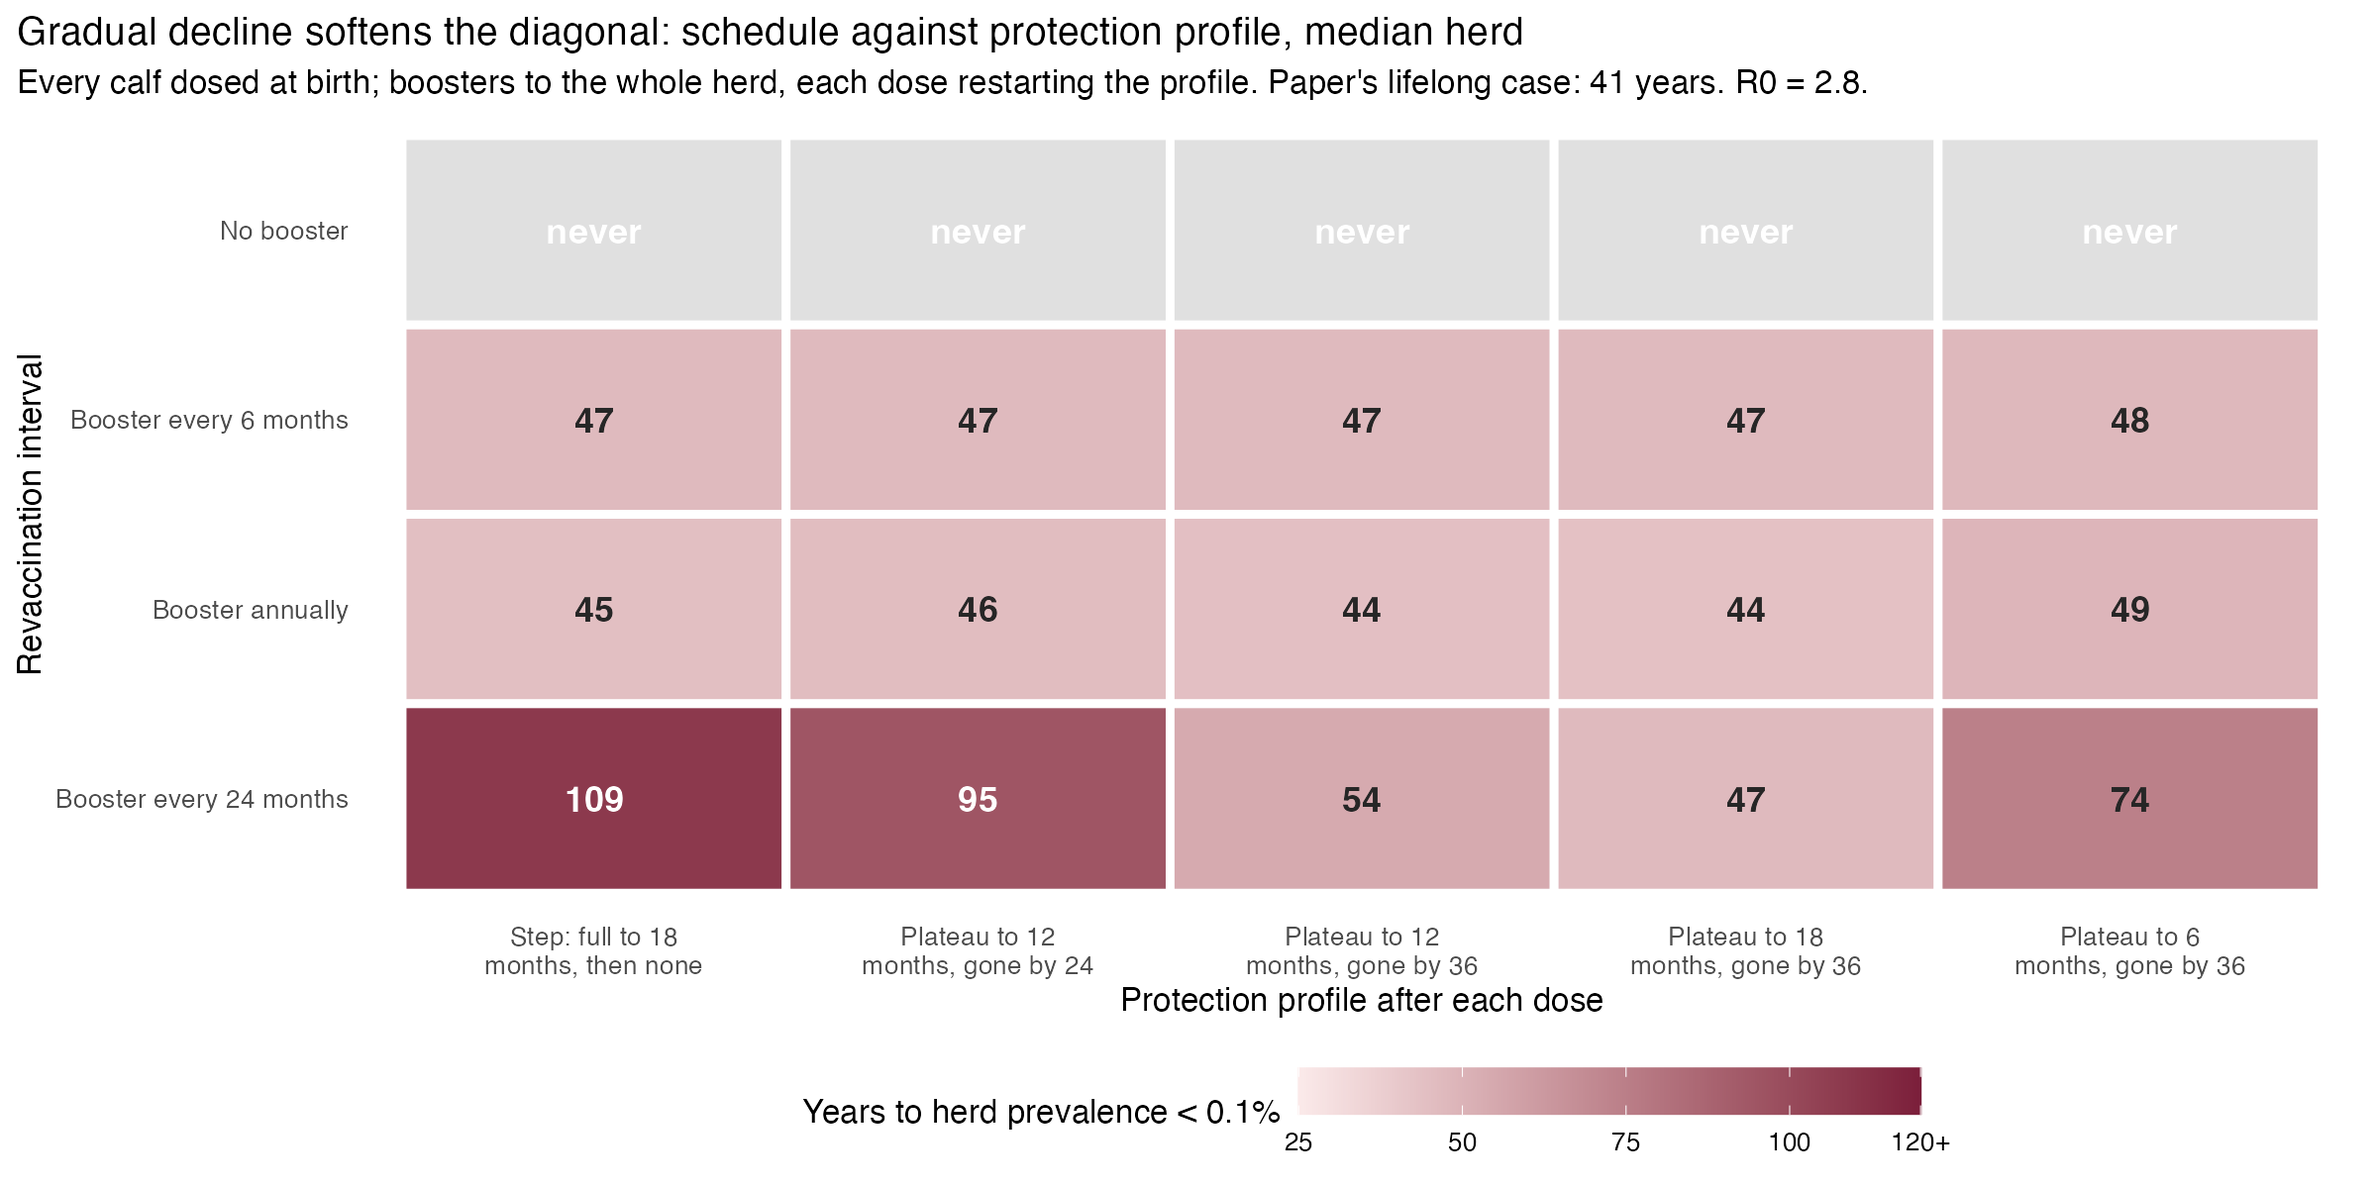
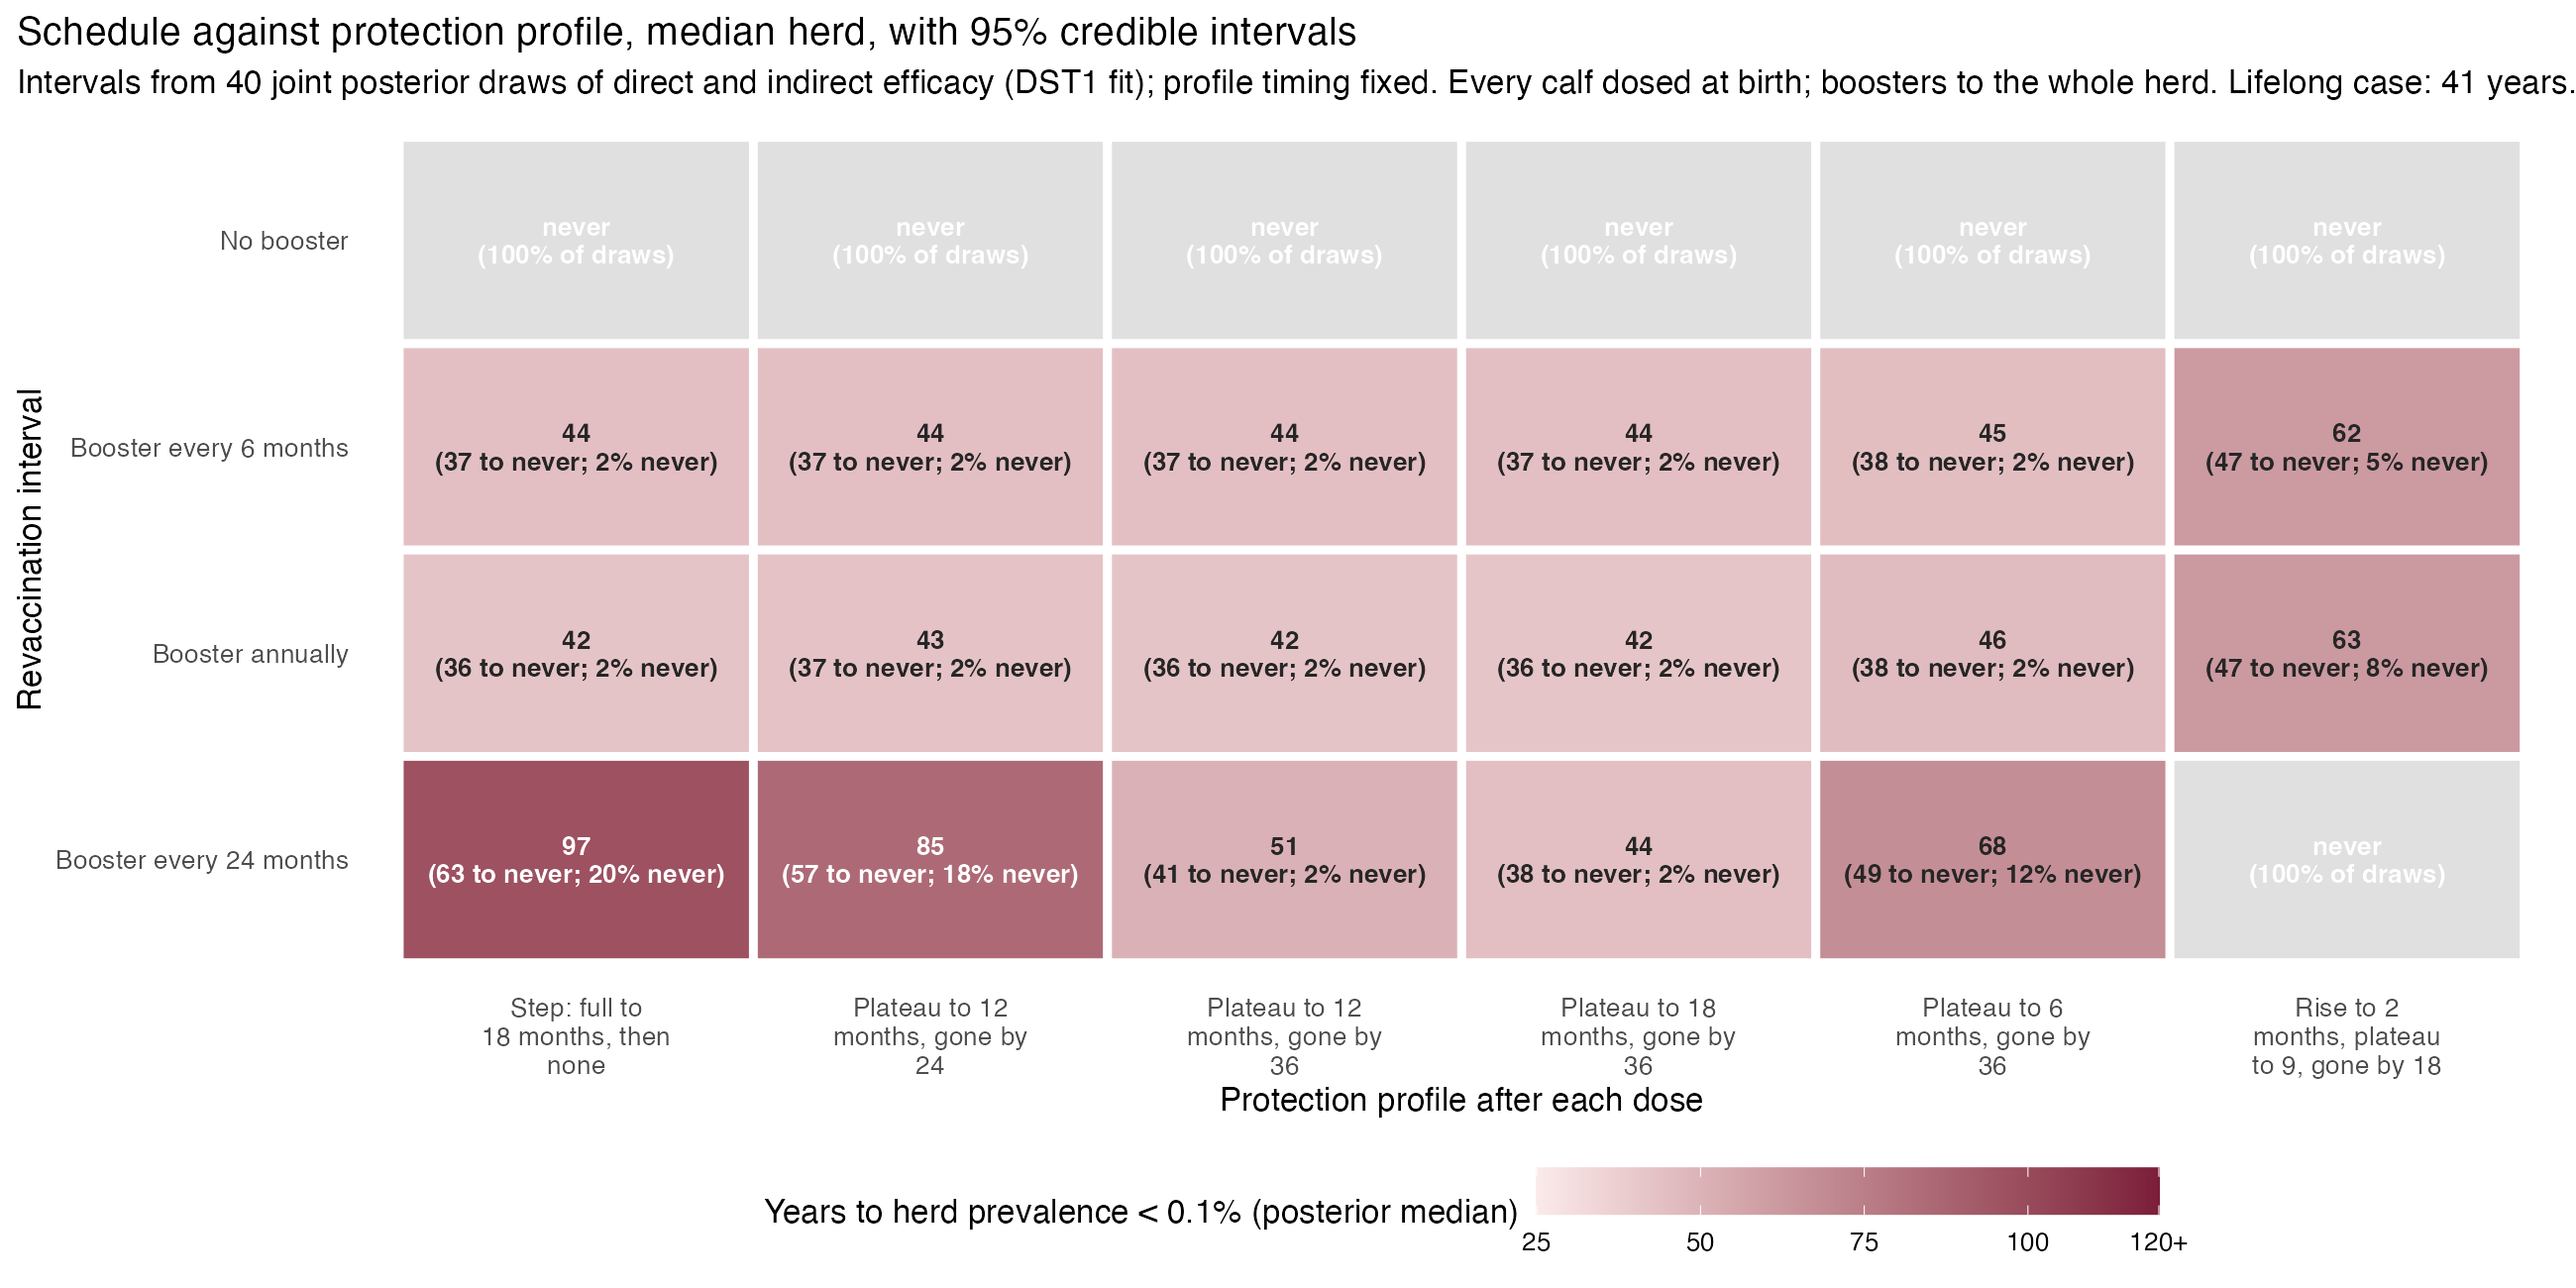
Profile credible intervals, short profile, and imports with test-and-removal
Posterior draws of direct and indirect efficacy give credible intervals
on the schedule-by-profile tiles; a 2-9-18 month profile is added; the
import sweep is repeated for a UK-like herd with R0 1.1 and annual
removal. Figures 17, 18 and 21.

Changed region(s): [[0.0, 0.0, 1.0, 0.8633], [0.2812, 0.8942, 0.8438, 0.9867], [0.875, 0.185, 0.9375, 0.2158]]

diff --git a/README.md b/README.md
@@ -92,6 +92,7 @@ of R0 and for the whole 57-herd population.
 | `R/run_profile.R` | Protection that rises over 30 days, plateaus, and declines with time since dose, tracked by a 40-stage clock; five profile shapes against four revaccination schedules. Model in `R/profile.R`, which also takes a hazard-ratio curve from a trial (`profile_from_hazard`). | `profile_schedule.csv`, figs 17 and 18 |
 | `R/run_nonresponders.R` | Persistent non-responders (never protected by any dose) against random per-dose non-response; analytic ceiling on the tolerable persistent fraction by herd R0. | `nonresponders.csv`, figs 19a and 19b |
 | `R/run_import.R` | Infected animals bought into the herd each year, under the paper's regime and under 18-month immunity with annual revaccination. | `imports.csv`, fig 20 |
+| `R/run_import_uk.R` | The same import sweep in a low-R0 setting with annual test-and-removal (R0 1.1, infected animals removed at 0.7 per year), against the Ethiopian setting, with and without vaccination. | `imports_uk.csv`, fig 21 |
 | `R/run_tiles.R` | Booster schedule (none, every 24 months, annual, every 6 months) against birth-dose duration (6 to 24 months), with the booster's own duration equal to, twice, or independent of the birth dose, and a fourth panel for campaign coverage. Model in `R/boost.R`. | `tiles_booster_schedule.csv`, fig 15 |
 | `R/run_memo_figure.R` | Scenario ladder: one lever changed per row from the paper's base case. | `memo_scenarios.csv`, fig 14 |
 | `R/run_revaccination.R` | Duration of protection from 3 months to lifelong under three strategies: calves at birth only; calves plus an annual campaign vaccinating every unprotected uninfected animal; calves plus an annual campaign vaccinating every uninfected animal, restarting protection in those still protected. Each under gradual (exponential) and near-fixed (Erlang, k = 20) waning. Deterministic times for representative herds and the 57-herd population, time-averaged protected fraction, and a SimInf check. Model in `R/revaccination.R`. | `revacc_*.csv`, figs 9 to 11 |
@@ -124,6 +125,7 @@ Layout:
     R/run_profile.R     profile shape against schedule
     R/run_nonresponders.R  persistent against random non-response
     R/run_import.R      infected purchases
+    R/run_import_uk.R   infected purchases with test-and-removal, UK-like R0
     R/run_tiles.R       booster schedule tile figure
     R/run_memo_figure.R scenario ladder
     data/               three inputs copied from the authors' repository
@@ -297,19 +299,32 @@ as the interval: with 18-month protection and annual boosters, 90% coverage
 costs 4 years, 70% costs 24, and 50% removes elimination.
 
 Shape of protection (`run_profile.R`). Replacing all-or-nothing protection
-with a curve that rises over 30 days, holds at 58% and then declines
-changes the reading of the schedule grid. Under annual or six-monthly
-revaccination every shape gives 44 to 49 years in the median herd, because
-the interval is shorter than the plateau and the tail never matters. Under
+with a curve that rises, holds at 58% and then declines changes the reading
+of the schedule grid (figs 17 and 18). Under annual or six-monthly
+revaccination the shape barely matters for any profile whose plateau
+outlasts the interval: 42 to 46 years in the median herd. Under
 revaccination every 24 months the tail is everything: a step to 18 months
-gives 109 years, a plateau to 12 months gone by 24 gives 95, the same
-plateau with decline stretched to 36 months gives 54, and a plateau to 18
-months gone by 36 gives 47 (fig 18). What the schedule has to match is
-the protection-years per dose delivered inside the interval, which is the
-area under the trial's hazard-ratio curve, not a single duration.
-`profile_from_hazard` in `R/profile.R` converts such a curve into the
-model's input directly. The profile model applies the 30-day rise to every
-dose, so its times run a few years above the step-function figures.
+gives 97 years, a plateau to 12 months gone by 24 gives 85, the same
+plateau with decline stretched to 36 months gives 51, and a plateau to 18
+months gone by 36 gives 44. A short profile, rising over 2 months, holding
+to 9 and gone by 18, needs annual or six-monthly boosting and then costs
+about 20 years (62 to 63), and never eliminates with a 24-month interval.
+What the schedule has to match is the protection-years per dose delivered
+inside the interval, the area under the trial's hazard-ratio curve, not a
+single duration; `profile_from_hazard` in `R/profile.R` converts such a
+curve into the model's input.
+
+The credible intervals come from 40 joint posterior draws of direct and
+indirect efficacy from the DST1 fit, with the timing of each profile held
+fixed. Their lower ends sit 5 to 7 years below the medians. Their upper
+ends are "never" in every cell, because the lower tail of the efficacy
+posterior (direct 34%, indirect 46%) puts the reproduction number under
+vaccination at about 1 even with lifelong protection; the share of draws
+that never eliminate is 2 to 8% for the longer profiles under annual or
+six-monthly boosting and 12 to 20% for the short profile and the 24-month
+interval. The uncertainty in the efficacy estimates therefore matters at
+the feasibility boundary, not in the middle of the grid, and timing
+uncertainty is not represented at all until the trial supplies it.
 
 Non-responders (`run_nonresponders.R`). If a share of animals never
 responds to any dose, elimination stays possible only while the rest of the
@@ -333,6 +348,19 @@ life and starts a short chain that vaccination shortens but cannot remove.
 Time to elimination is therefore a within-herd quantity; across herds
 that trade, the outcome is the prevalence a programme can hold, and it is
 set by the sourcing of replacements.
+
+The same sweep in a UK-like herd (`run_import_uk.R`), with infected
+animals removed by annual testing at 0.7 per year and within-herd R0 of
+1.1 once that removal is counted, gives a different scale but the same
+shape (fig 21). Vaccination alone takes such a herd below 0.1% in 7 to 9
+years, against 41 to 45 in Ethiopia, because the reproduction number
+under vaccination is 0.12 and infected animals last about a year rather
+than a lifetime. Imports still set the floor: one infected purchase per
+100 head every four years holds prevalence near 0.4%, one a year near
+1.6%, and five a year near 8%, which is close to the unvaccinated level of
+9%. The floor scales with the import rate divided by the removal rate,
+so test-and-removal lowers it about fourfold relative to Ethiopia, and
+pre-movement testing, which lowers the import rate itself, does the rest.
 
 ## Interpretation
 
